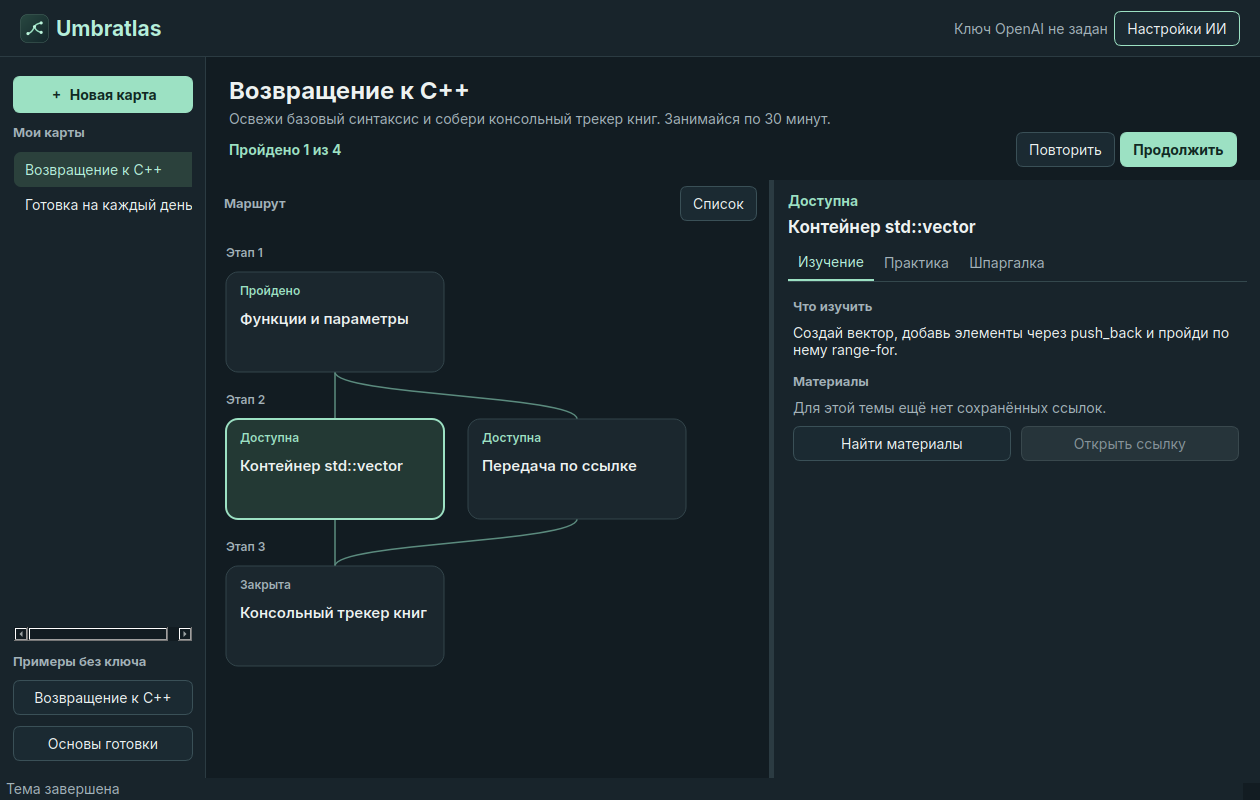
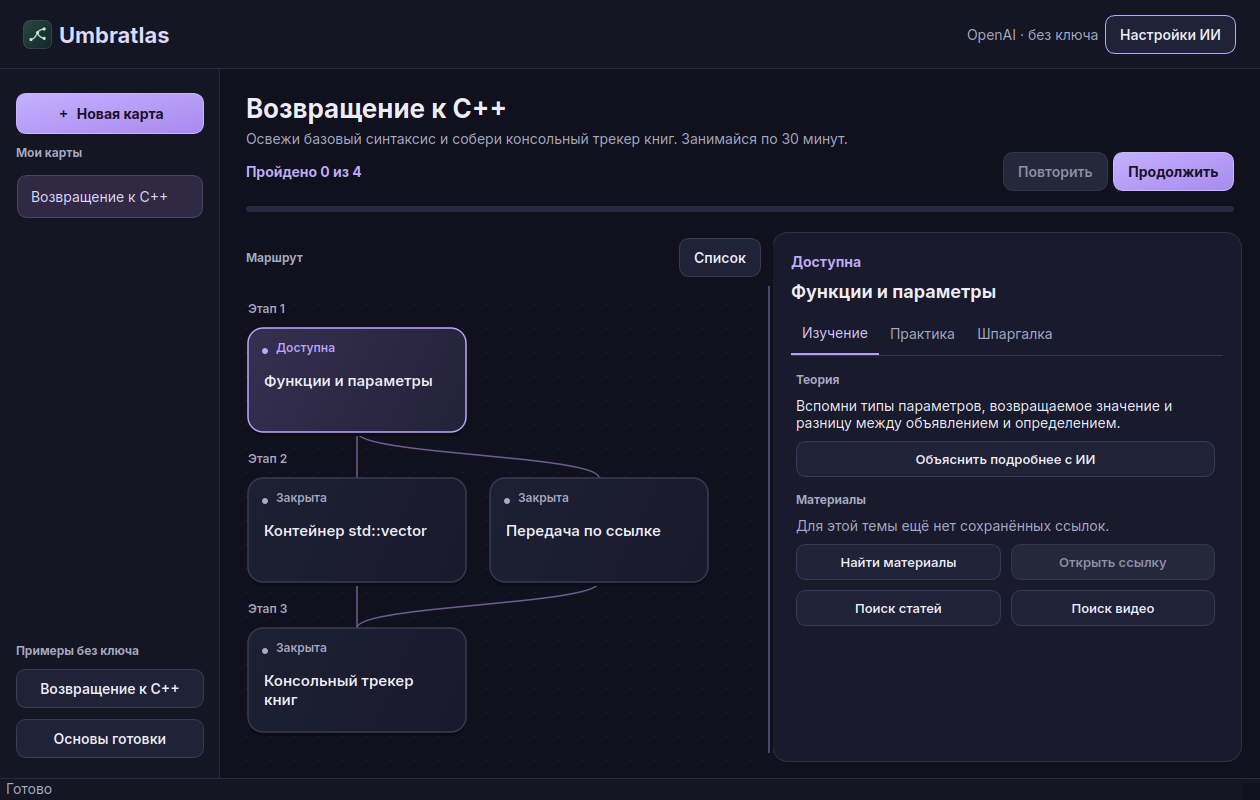
Refresh desktop with Lavender Night theme and release 0.3.1

diff --git a/umbratlas/ui.py b/umbratlas/ui.py
@@ -12,7 +12,7 @@ from PySide6.QtGui import QIcon, QKeySequence, QShortcut
 from PySide6.QtWidgets import (
     QApplication, QCheckBox, QComboBox, QDialog, QDialogButtonBox, QFormLayout, QFrame, QHBoxLayout,
     QLabel, QLineEdit, QListWidget, QListWidgetItem, QMainWindow, QMessageBox, QPlainTextEdit,
-    QPushButton, QScrollArea, QSizePolicy, QSplitter, QStackedWidget, QTabWidget, QVBoxLayout, QWidget,
+    QProgressBar, QPushButton, QScrollArea, QSizePolicy, QSplitter, QStackedWidget, QTabWidget, QVBoxLayout, QWidget,
 )
 
 from . import __version__
@@ -26,38 +26,54 @@ PROVIDERS = {"openai": "OpenAI", "ghostmodel": "GhostModel", "custom": "Друг
 PRESETS = {"openai": OPENAI_URL, "ghostmodel": GHOSTMODEL_URL}
 ASSETS = Path(__file__).resolve().parent.parent / "assets"
 STYLE = """
-QWidget { background: #121c22; color: #edf2f1; font-family: Inter, sans-serif; font-size: 14px; }
-QFrame#sidebar, QFrame#detail, QFrame#top { background: #18242b; }
-QFrame#sidebar { border-right: 1px solid #2b3b42; }
-QFrame#detail { border-left: 1px solid #2b3b42; }
-QFrame#top { border-bottom: 1px solid #2b3b42; }
+QWidget { background: #10111d; color: #eeedf7; font-family: Inter, sans-serif; font-size: 14px; }
+QFrame#sidebar { background: #151624; border-right: 1px solid #282a40; }
+QFrame#detail { background: #191b2c; border: 1px solid #30324c; border-radius: 16px; }
+QFrame#top { background: #151624; border-bottom: 1px solid #282a40; }
 QLabel, QCheckBox { background: transparent; }
-QLabel#brand { color: #b5efda; font-size: 21px; font-weight: 750; }
-QLabel#hero { font-size: 32px; font-weight: 700; }
-QLabel#heading { font-size: 24px; font-weight: 700; }
-QLabel#subheading { font-size: 17px; font-weight: 680; }
-QLabel#muted, QLabel#section { color: #a3b2b9; }
-QLabel#section { font-size: 13px; font-weight: 650; }
-QLabel#accent { color: #9ce1c3; font-weight: 650; }
+QLabel#brand { color: #e2d9ff; font-size: 22px; font-weight: 750; }
+QLabel#hero { font-size: 36px; font-weight: 750; color: #f5f1ff; }
+QLabel#heading { font-size: 26px; font-weight: 700; }
+QLabel#subheading { font-size: 18px; font-weight: 650; }
+QLabel#muted, QLabel#section { color: #a8abc5; }
+QLabel#section { font-size: 12px; font-weight: 650; }
+QLabel#accent { color: #c1adff; font-weight: 650; }
 QPushButton, QLineEdit, QPlainTextEdit, QComboBox {
-    background: #1b2a32; border: 1px solid #3a5057; border-radius: 7px; padding: 8px 12px;
+    background: #202238; border: 1px solid #393b58; border-radius: 10px; padding: 10px 14px;
 }
-QPushButton:hover { background: #294047; border-color: #709e90; }
-QPushButton:focus, QLineEdit:focus, QPlainTextEdit:focus, QListWidget:focus { border: 1px solid #9ce1c3; }
-QPushButton#accent { color: #112822; background: #9ce1c3; border-color: #9ce1c3; font-weight: 700; }
-QPushButton#accent:hover { background: #b7f2db; }
-QPushButton:disabled, QPushButton#accent:disabled { color: #869399; background: #26343a; border-color: #39484d; }
-QListWidget { background: #18242b; border: 1px solid transparent; outline: 0; }
-QListWidget::item { padding: 9px 8px; border-radius: 7px; }
-QListWidget::item:selected { color: #b5efda; background: #2b413c; }
-QListWidget::item:hover:!selected { background: #22333b; }
-QTabWidget::pane { border: 0; border-top: 1px solid #34484d; }
-QTabBar::tab { background: #18242b; color: #a3b2b9; padding: 9px 10px; }
-QTabBar::tab:selected { color: #b5efda; border-bottom: 2px solid #9ce1c3; }
-QScrollArea { border: 0; background: #18242b; }
-QWidget#tabBody { background: #18242b; }
-QStatusBar { background: #18242b; color: #a3b2b9; }
-QSplitter::handle { background: #2b3b42; }
+QPushButton { font-weight: 550; }
+QFrame#detail QPushButton { font-size: 13px; padding: 9px 8px; }
+QPushButton:hover { background: #2c2b48; border-color: #8c78bf; }
+QPushButton:pressed { background: #37304f; }
+QPushButton:focus, QLineEdit:focus, QPlainTextEdit:focus, QListWidget:focus { border: 1px solid #bda5ff; }
+QPushButton#accent {
+    color: #171225; background: qlineargradient(x1:0,y1:0,x2:1,y2:1,stop:0 #c4b0ff,stop:1 #a88aee);
+    border: 1px solid #c8b4ff; font-weight: 700;
+}
+QPushButton#accent:hover { background: #d1c0ff; }
+QPushButton#accent:pressed { background: #ad91ef; }
+QPushButton:disabled, QPushButton#accent:disabled { color: #8e91ab; background: #25273b; border-color: #34364e; }
+QListWidget { background: transparent; border: 1px solid transparent; outline: 0; }
+QListWidget::item { padding: 13px 10px; border-radius: 10px; margin: 3px 0; }
+QListWidget::item:selected { color: #e3d9ff; background: #302943; border: 1px solid #51416e; }
+QListWidget::item:hover:!selected { background: #24263b; }
+QTabWidget::pane { border: 0; border-top: 1px solid #343650; }
+QTabBar::tab { background: #191b2c; color: #a8abc5; padding: 12px 11px; }
+QTabBar::tab:selected { color: #d8c8ff; border-bottom: 2px solid #b99af9; }
+QTabBar::tab:hover { color: #eee6ff; }
+QScrollArea { border: 0; background: transparent; }
+QWidget#tabBody { background: #191b2c; }
+QStatusBar { background: #151624; color: #a8abc5; border-top: 1px solid #282a40; }
+QSplitter::handle { background: #10111d; width: 14px; }
+QScrollBar:vertical { background: transparent; width: 8px; margin: 3px; }
+QScrollBar:horizontal { background: transparent; height: 8px; margin: 3px; }
+QScrollBar::handle { background: #4c496a; border-radius: 3px; min-height: 26px; min-width: 26px; }
+QScrollBar::handle:hover { background: #8b78b7; }
+QScrollBar::add-line, QScrollBar::sub-line { width: 0; height: 0; }
+QScrollBar::add-page, QScrollBar::sub-page { background: transparent; }
+QProgressBar { background: #292a42; border: 0; border-radius: 3px; max-height: 6px; }
+QProgressBar::chunk { background: #b99af9; border-radius: 3px; }
+QToolTip { background: #29253e; color: #eee6ff; border: 1px solid #766091; padding: 7px; }
 """
 
 
@@ -521,7 +537,7 @@ class MainWindow(QMainWindow):
         self.setCentralWidget(self.screen_stack)
         top = QFrame(objectName="top")
         bar = QHBoxLayout(top)
-        bar.setContentsMargins(19, 11, 20, 11)
+        bar.setContentsMargins(22, 15, 24, 15)
         logo = QLabel()
         logo.setPixmap(QIcon(str(ASSETS / "umbratlas.png")).pixmap(31, 31))
         bar.addWidget(logo)
@@ -542,9 +558,9 @@ class MainWindow(QMainWindow):
         root.addLayout(main, 1)
 
         sidebar = QFrame(objectName="sidebar")
-        sidebar.setFixedWidth(206)
+        sidebar.setFixedWidth(220)
         nav = QVBoxLayout(sidebar)
-        nav.setContentsMargins(13, 19, 13, 17)
+        nav.setContentsMargins(16, 24, 16, 20)
         nav.setSpacing(11)
         nav.addWidget(button("＋  Новая карта", self.new_map, True))
         self.resume_interview = button("К диагностике", self.open_interview)
@@ -568,9 +584,12 @@ class MainWindow(QMainWindow):
         intro.setContentsMargins(46, 24, 46, 24)
         intro.setSpacing(14)
         intro.addStretch()
-        intro.addWidget(label("Карта твоего обучения", "hero"))
+        intro.addWidget(label("ТВОЙ ЛИЧНЫЙ АТЛАС ЗНАНИЙ", "accent"))
+        intro.addWidget(label("Большая цель.\nПонятный следующий шаг.", "hero"))
         intro.addWidget(label("Опиши цель, ответь на вопросы и получи маршрут с практикой и шпаргалками.", "muted"))
-        intro.addSpacing(10)
+        intro.addSpacing(18)
+        intro.addWidget(label("01  Определи цель     ·     02  Построй маршрут     ·     03  Закрепи практикой", "muted"))
+        intro.addSpacing(18)
         intro.addWidget(button("Создать карту", self.new_map, True), alignment=Qt.AlignmentFlag.AlignLeft)
         intro.addWidget(button("Открыть пример C++", partial(self.add_sample, "cpp")), alignment=Qt.AlignmentFlag.AlignLeft)
         intro.addStretch()
@@ -579,10 +598,10 @@ class MainWindow(QMainWindow):
         workspace = QWidget()
         self.pages.addWidget(workspace)
         columns = QVBoxLayout(workspace)
-        columns.setContentsMargins(0, 0, 0, 0)
+        columns.setContentsMargins(8, 0, 18, 16)
         columns.setSpacing(0)
         header = QVBoxLayout()
-        header.setContentsMargins(23, 18, 23, 13)
+        header.setContentsMargins(18, 24, 8, 20)
         header.setSpacing(5)
         self.map_title = label(style="heading")
         self.summary = label(style="muted")
@@ -597,6 +616,11 @@ class MainWindow(QMainWindow):
         actions.addWidget(self.review_button)
         actions.addWidget(self.continue_button)
         header.addLayout(actions)
+        self.progress_bar = QProgressBar()
+        self.progress_bar.setTextVisible(False)
+        self.progress_bar.setAccessibleName("Прогресс маршрута")
+        header.addSpacing(10)
+        header.addWidget(self.progress_bar)
         columns.addLayout(header)
 
         splitter = QSplitter()
@@ -637,8 +661,8 @@ class MainWindow(QMainWindow):
         panel.setMinimumWidth(343)
         panel.setSizePolicy(QSizePolicy.Policy.Preferred, QSizePolicy.Policy.Expanding)
         details = QVBoxLayout(panel)
-        details.setContentsMargins(15, 12, 13, 8)
-        details.setSpacing(7)
+        details.setContentsMargins(18, 20, 18, 12)
+        details.setSpacing(10)
         self.topic_status = label(style="accent")
         self.topic_title = label(style="subheading")
         details.addWidget(self.topic_status)
@@ -794,6 +818,8 @@ class MainWindow(QMainWindow):
         passed = sum(bool(state["completed_at"]) for state in self.progress.values())
         due = len(pending_reviews(self.roadmap, self.progress))
         self.count.setText(f"Пройдено {passed} из {total}")
+        self.progress_bar.setRange(0, total)
+        self.progress_bar.setValue(passed)
         self.review_button.setText(f"Повторить · {due}" if due else "Повторить")
         self.review_button.setEnabled(passed > 0)
         self.continue_button.setEnabled(passed < total)

diff --git a/umbratlas/graph.py b/umbratlas/graph.py
@@ -1,15 +1,15 @@
 """Clickable Qt scene for roadmap prerequisites."""
 
-from PySide6.QtCore import QRectF, Qt, Signal
-from PySide6.QtGui import QColor, QFont, QPainter, QPainterPath, QPen
+from PySide6.QtCore import QPointF, QRectF, Qt, Signal
+from PySide6.QtGui import QColor, QLinearGradient, QFont, QPainter, QPainterPath, QPen
 from PySide6.QtWidgets import QGraphicsObject, QGraphicsScene, QGraphicsView
 
 from .core import available, stages
 
-WIDTH, HEIGHT = 218, 100
-INK = "#edf2f1"
-MUTED = "#a3b2b9"
-MINT = "#9ce1c3"
+WIDTH, HEIGHT = 218, 104
+INK = "#eeedf7"
+MUTED = "#a8abc5"
+ACCENT = "#bea5ff"
 
 
 class TopicCard(QGraphicsObject):
@@ -22,26 +22,46 @@ class TopicCard(QGraphicsObject):
         self.selected = selected
         self.setCursor(Qt.CursorShape.PointingHandCursor)
         self.setToolTip(topic["title"])
+        self.setAcceptHoverEvents(True)
+        self.hovered = False
 
     def boundingRect(self):
-        return QRectF(-2, -2, WIDTH + 4, HEIGHT + 4)
+        return QRectF(-2, -2, WIDTH + 4, HEIGHT + 8)
 
     def paint(self, painter, option, widget=None):
-        painter.setPen(QPen(QColor(MINT if self.selected else "#32444a"), 2 if self.selected else 1))
-        painter.setBrush(QColor("#233934" if self.selected else "#1b272e"))
-        painter.drawRoundedRect(QRectF(0, 0, WIDTH, HEIGHT), 12, 12)
-        painter.setPen(QColor(MINT if self.status != "Закрыта" else MUTED))
+        painter.setPen(Qt.PenStyle.NoPen)
+        painter.setBrush(QColor("#0b0c16"))
+        painter.drawRoundedRect(QRectF(0, 4, WIDTH, HEIGHT), 15, 15)
+        gradient = QLinearGradient(0, 0, WIDTH, HEIGHT)
+        gradient.setColorAt(0, QColor("#34304f" if self.selected else "#24263d" if self.hovered else "#1d1f33"))
+        gradient.setColorAt(1, QColor("#24213a" if self.selected else "#191b2c"))
+        painter.setBrush(gradient)
+        painter.setPen(QPen(QColor(ACCENT if self.selected else "#71608f" if self.hovered else "#383a54"), 1.5))
+        painter.drawRoundedRect(QRectF(0, 0, WIDTH, HEIGHT), 15, 15)
+        color = "#91d4c3" if self.status.startswith("Пройдено") else MUTED if self.status.startswith("Закрыта") else ACCENT
+        painter.setPen(Qt.PenStyle.NoPen)
+        painter.setBrush(QColor(color))
+        painter.drawEllipse(QPointF(17, 23), 3, 3)
+        painter.setPen(QColor(color))
         painter.setFont(QFont("Inter", 9, QFont.Weight.DemiBold))
-        painter.drawText(QRectF(14, 11, WIDTH - 28, 21), Qt.AlignmentFlag.AlignLeft, self.status)
+        painter.drawText(QRectF(28, 12, WIDTH - 40, 21), Qt.AlignmentFlag.AlignLeft, self.status)
         painter.setPen(QColor(INK))
         painter.setFont(QFont("Inter", 11, QFont.Weight.DemiBold))
-        rect = QRectF(14, 37, WIDTH - 28, 53)
+        rect = QRectF(16, 43, WIDTH - 32, 53)
         flags = int(Qt.AlignmentFlag.AlignTop) | int(Qt.TextFlag.TextWordWrap)
         title = self.topic["title"]
         painter.save()
         painter.setClipRect(rect)
         painter.drawText(rect, flags, title)
         painter.restore()
+
+    def hoverEnterEvent(self, event):
+        self.hovered = True
+        self.update()
+
+    def hoverLeaveEvent(self, event):
+        self.hovered = False
+        self.update()
 
     def mousePressEvent(self, event):
         if event.button() == Qt.MouseButton.LeftButton:
@@ -58,18 +78,27 @@ class MapView(QGraphicsView):
         super().__init__()
         self.setScene(QGraphicsScene(self))
         self.setRenderHint(QPainter.RenderHint.Antialiasing)
-        self.setBackgroundBrush(QColor("#121c22"))
+        self.setBackgroundBrush(QColor("#10111d"))
         self.setDragMode(QGraphicsView.DragMode.ScrollHandDrag)
         self.setAlignment(Qt.AlignmentFlag.AlignLeft | Qt.AlignmentFlag.AlignTop)
         self.setFrameShape(QGraphicsView.Shape.NoFrame)
         self.cards = {}
+
+    def drawBackground(self, painter, rect):
+        painter.fillRect(rect, QColor("#10111d"))
+        painter.setPen(QPen(QColor("#292a40"), 1))
+        step = 24
+        left, top = int(rect.left()) // step * step, int(rect.top()) // step * step
+        for x in range(left, int(rect.right()) + step, step):
+            for y in range(top, int(rect.bottom()) + step, step):
+                painter.drawPoint(QPointF(x, y))
 
     def show_map(self, roadmap, progress, selected):
         scene = self.scene()
         scene.clear()
         self.cards.clear()
         for row, group in enumerate(stages(roadmap)):
-            y = 48 + row * 147
+            y = 48 + row * 150
             label = scene.addSimpleText(f"Этап {row + 1}", QFont("Inter", 9, QFont.Weight.DemiBold))
             label.setBrush(QColor(MUTED))
             label.setPos(26, y - 27)
@@ -96,7 +125,7 @@ class MapView(QGraphicsView):
                 path.moveTo(sx, sy)
                 middle = sy + min(24, (ey - sy) / 2)
                 path.cubicTo(sx, middle, ex, middle, ex, ey)
-                line = scene.addPath(path, QPen(QColor("#5b8b7e"), 1.5))
+                line = scene.addPath(path, QPen(QColor("#6e5c93"), 1.5))
                 line.setZValue(-1)
         scene.setSceneRect(scene.itemsBoundingRect().adjusted(-18, -18, 28, 30))
 

diff --git a/umbratlas/__init__.py b/umbratlas/__init__.py
@@ -1,3 +1,3 @@
 """Umbratlas desktop learning maps."""
 
-__version__ = "0.3.0"
+__version__ = "0.3.1"

diff --git a/README.md b/README.md
@@ -4,6 +4,10 @@
 
 ![Карта изучения C++ в Umbratlas с ветками, прогрессом и карточкой темы](assets/screenshot.png)
 
+## Оформление
+
+Тема **Lavender Night**: чернильный фон, лавандовые акценты и сине-фиолетовые карточки. Точечная сетка помогает ориентироваться в графе; подсветка выделяет выбранную тему, а полоса над картой показывает прогресс.
+
 ## Как работает
 
 1. **Выбери цель.** Опиши, чему хочешь научиться. ИИ задаст обычно 3–5 вопросов об опыте, времени и желаемом результате, максимум 17. Вопросы показываются по одному; ответы сохраняются автоматически.
@@ -18,10 +22,10 @@
 
 ### RPM (рекомендуется)
 
-Скачай `umbratlas-0.3.0-1.noarch.rpm` на [странице релиза](https://github.com/DarolCup/umbratlas/releases/tag/v0.3.0), затем:
+Скачай `umbratlas-0.3.1-1.noarch.rpm` на [странице релиза](https://github.com/DarolCup/umbratlas/releases/tag/v0.3.1), затем:
 
 ```bash
-sudo dnf install ./umbratlas-0.3.0-1.noarch.rpm
+sudo dnf install ./umbratlas-0.3.1-1.noarch.rpm
 umbratlas
 ```
 
@@ -29,13 +33,13 @@ DNF установит Python и Qt. Приложение появится в м
 
 ### Одной командой
 
-Скрипт из тега v0.3.0 скачивает архив релиза, сверяет SHA-256, при необходимости предлагает установить системный пакет Qt через DNF и добавляет Umbratlas в меню KDE.
+Скрипт из тега v0.3.1 скачивает архив релиза, сверяет SHA-256, при необходимости предлагает установить системный пакет Qt через DNF и добавляет Umbratlas в меню KDE.
 
 ```bash
-curl -fsSL https://raw.githubusercontent.com/DarolCup/umbratlas/v0.3.0/install.sh | bash
+curl -fsSL https://raw.githubusercontent.com/DarolCup/umbratlas/v0.3.1/install.sh | bash
 ```
 
-Посмотреть перед запуском можно [здесь](https://github.com/DarolCup/umbratlas/blob/v0.3.0/install.sh). Архив и контрольная сумма также доступны на [странице релиза](https://github.com/DarolCup/umbratlas/releases/tag/v0.3.0).
+Посмотреть перед запуском можно [здесь](https://github.com/DarolCup/umbratlas/blob/v0.3.1/install.sh). Архив и контрольная сумма также доступны на [странице релиза](https://github.com/DarolCup/umbratlas/releases/tag/v0.3.1).
 
 После установки открой **Umbratlas** в меню приложений KDE или запусти `~/.local/bin/umbratlas`. Установка приложения происходит в пользовательский каталог. Права администратора нужны только для установки недостающих системных зависимостей.
 
@@ -48,7 +52,7 @@ cd umbratlas
 python3 -m umbratlas
 ```
 
-Чтобы добавить ярлык в KDE из уже скачанных исходников, выполни `bash install.sh` в каталоге проекта. Можно также распаковать архив релиза и выполнить те же две команды запуска или установки внутри каталога `umbratlas-0.3.0`.
+Чтобы добавить ярлык в KDE из уже скачанных исходников, выполни `bash install.sh` в каталоге проекта. Можно также распаковать архив релиза и выполнить те же две команды запуска или установки внутри каталога `umbratlas-0.3.1`.
 
 ## Один экран, весь маршрут
 

diff --git a/RELEASE.md b/RELEASE.md
@@ -1,23 +1,22 @@
-# Umbratlas 0.3.0 · Fedora KDE
+# Umbratlas 0.3.1 · Lavender Night
 
-Настольный ИИ-преподаватель с интерактивными картами обучения.
+Обновлённое оформление для Fedora KDE:
 
-- Настройки, диагностика, самопроверка, повторение и чат с учителем открываются внутри единственного главного окна.
-- Диагностика по одному вопросу с навигацией назад/вперёд, ограничением в 17 вопросов и сохранением ответов.
-- Основные и необязательные темы; обязательный маршрут не зависит от дополнительных веток. Масштабирование карты: Ctrl + колесо мыши.
-- Подробная теория, уточняющие вопросы учителю, практика, проверка ИИ и шпаргалки.
-- Поиск источников через API с web_search; статьи, поиск и видео открываются во встроенном Qt WebEngine.
-- Черновики практики сохраняются в SQLite. После перерыва от семи дней появляется вопрос на повторение и возможность получить план возвращения от ИИ.
-- Готовый noarch RPM, архив исходников и SHA256SUMS. Старые базы сохраняются и обновляются автоматически.
+- Чернильный фон, лавандовые акценты, спокойные сине-фиолетовые поверхности.
+- Карточки графа с мягким градиентом, подсветкой при наведении и цветными индикаторами состояния.
+- Точечная сетка, тонкие связи и полоска прогресса маршрута.
+- Новое приветствие, увеличенные отступы, скруглённая панель урока и единое оформление прокрутки.
 
-## Установка
+Данные, карты и прогресс сохраняются.
 
-Скачай `umbratlas-0.3.0-1.noarch.rpm` из вложений и выполни:
+Установка или обновление пользовательской версии:
 
 ```bash
-sudo dnf install ./umbratlas-0.3.0-1.noarch.rpm
+curl -fsSL https://raw.githubusercontent.com/DarolCup/umbratlas/main/install.sh | bash
 ```
 
-Открой **Umbratlas** в меню KDE. Для новых карт подключи свой API-ключ в настройках. Без ключа доступны две демонстрационные карты, практика и повторение.
+Для установки через RPM скачай `umbratlas-0.3.1-1.noarch.rpm` и выполни:
 
-Веб-поиск требует поддержки `web_search` выбранным провайдером. Воспроизведение видео зависит от сайта и установленных мультимедийных кодеков. Платные API-вызовы в автоматических тестах заменены проверяемыми ответами.
+```bash
+sudo dnf install ./umbratlas-0.3.1-1.noarch.rpm
+```
